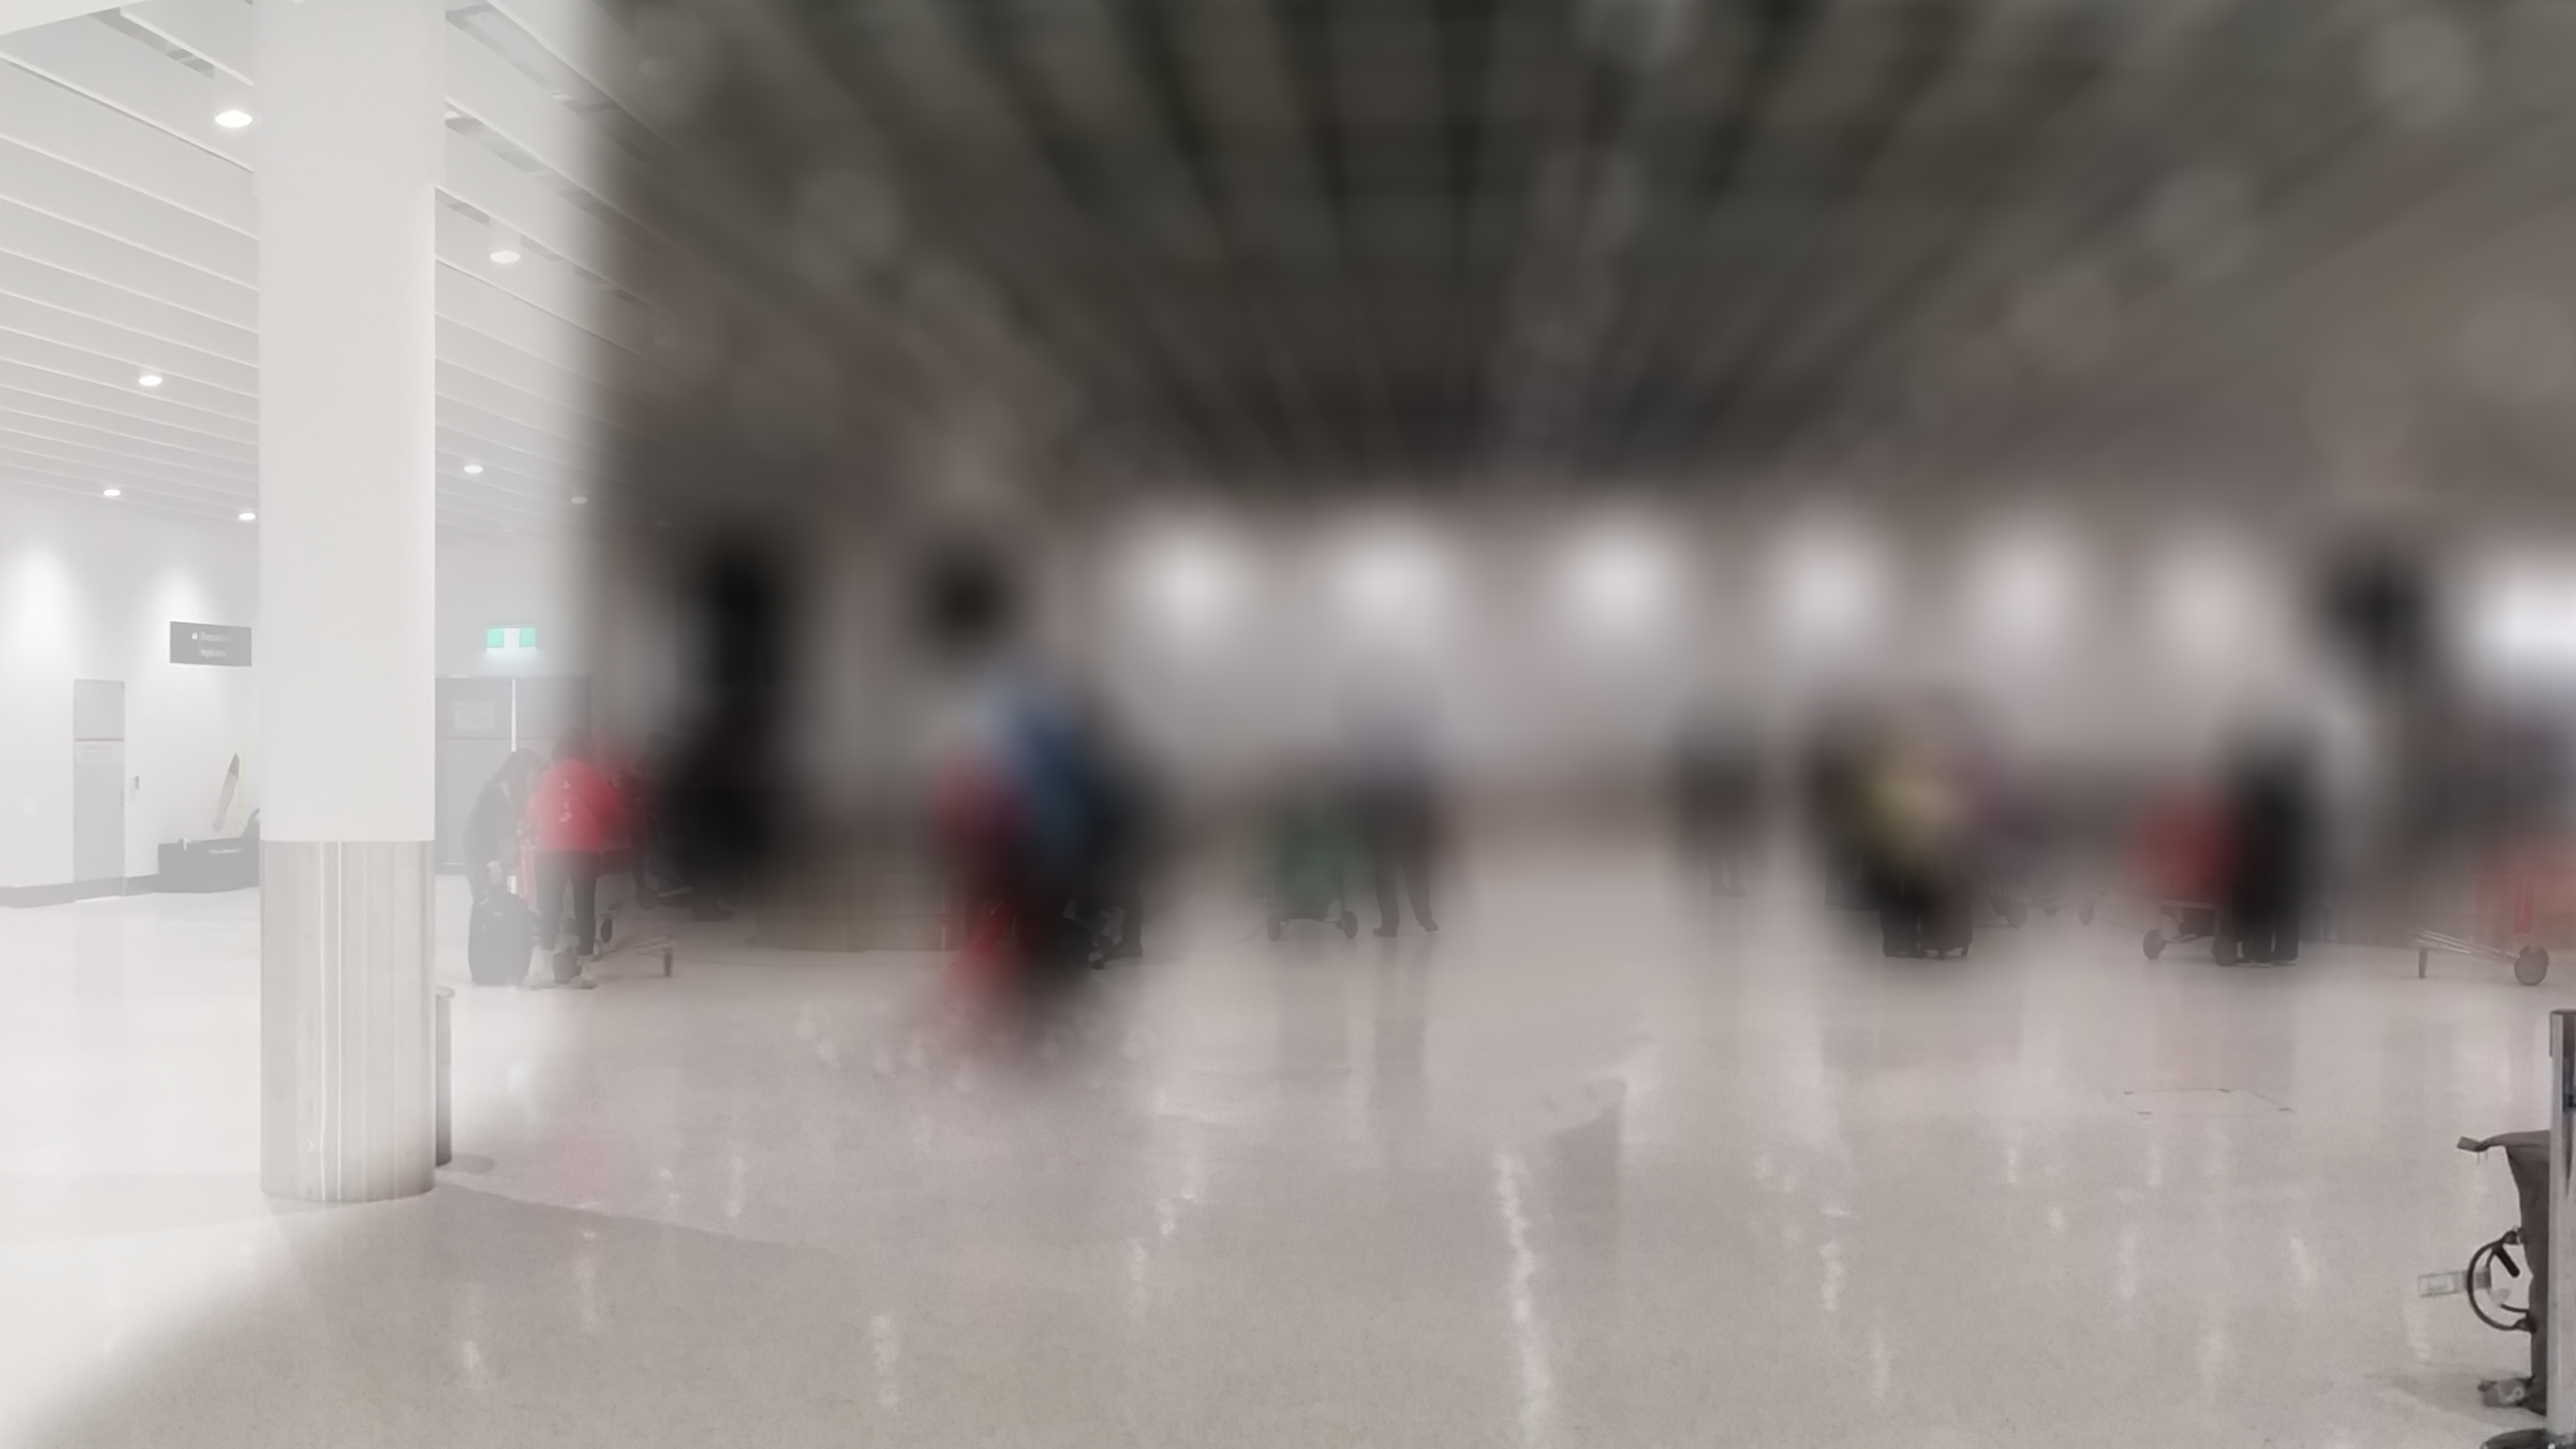
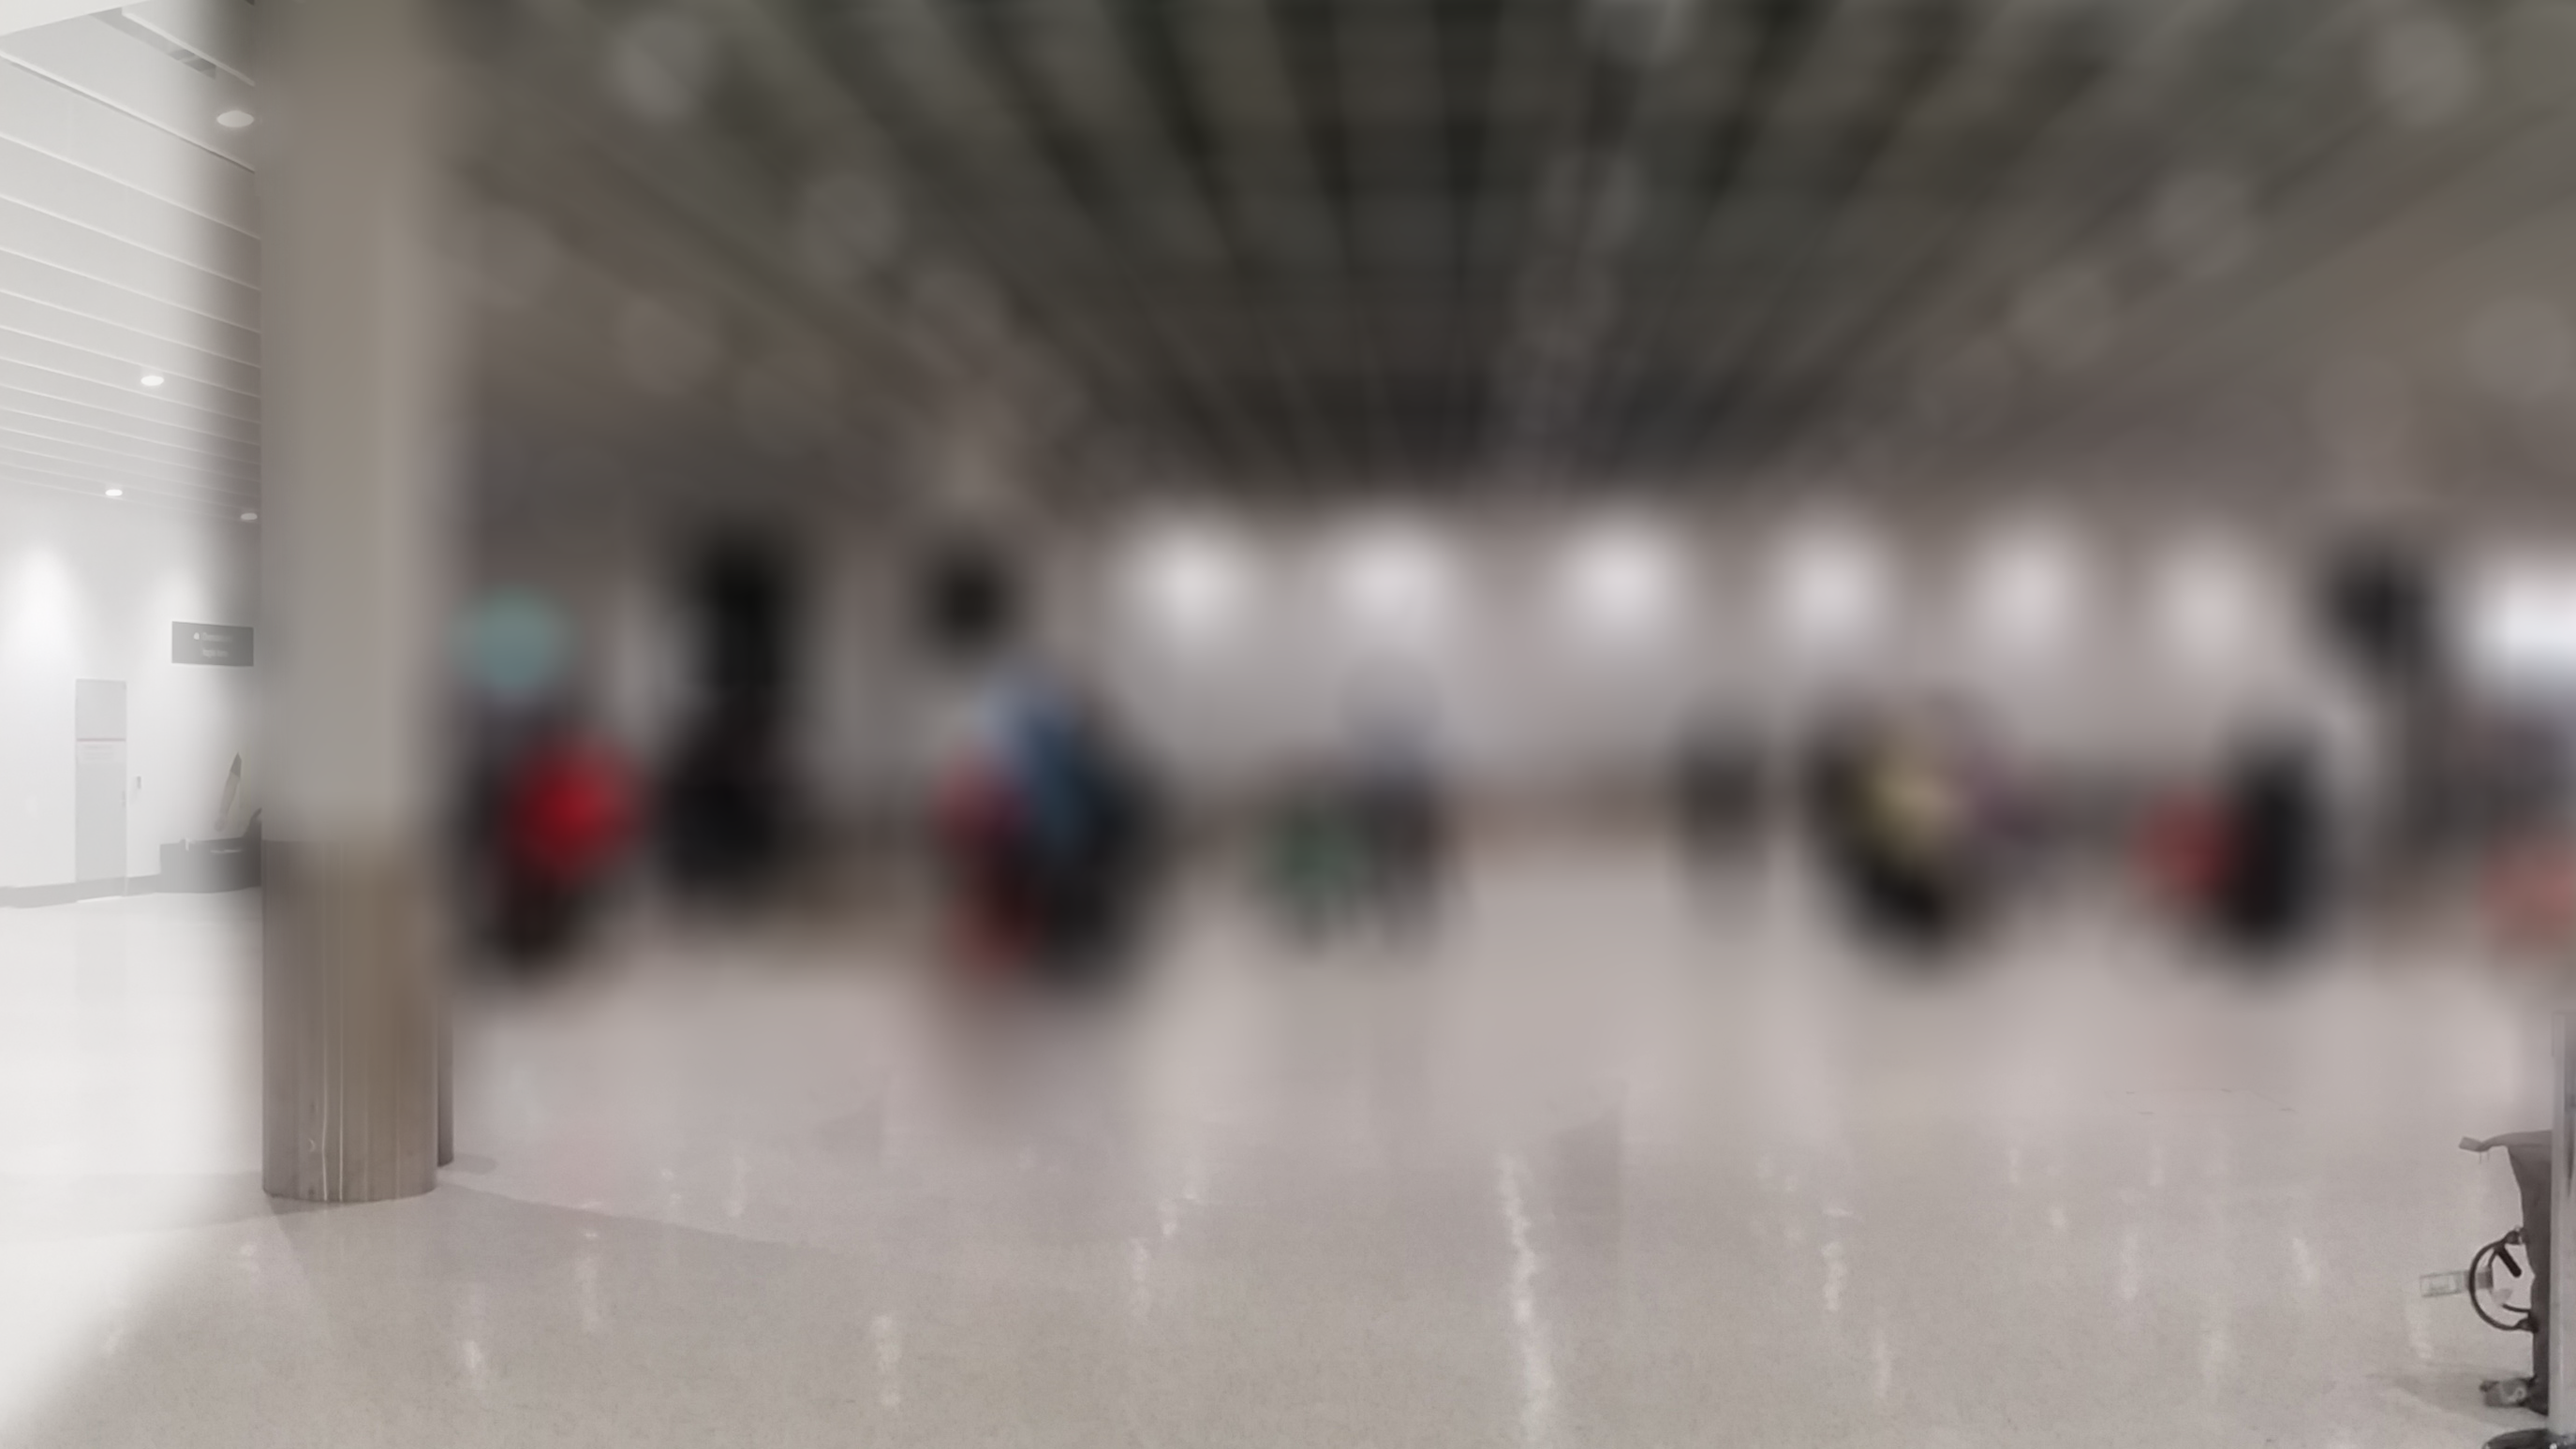
more animation
passenger id, checkpoint block

diff --git a/view.cpp b/view.cpp
@@ -137,7 +137,7 @@ void flush(int value) {
         drawButton();
     } else {
         // 图形
-
+        drawObject(anibg, Point(-1.0, -1.0), 2.0, 2.0);
         // 移动队列中所有乘客并绘制
         for(int i = 0; i < SerpQ.getNum(); i++) SerpQ[i].move();
         drawSerpQueue();
@@ -472,6 +472,20 @@ void loadTexture() {
 
     texId[initbg] = SOIL_load_OGL_texture(
         ".\\source\\initbg.png",
+        SOIL_LOAD_AUTO,
+        SOIL_CREATE_NEW_ID,
+        SOIL_FLAG_MIPMAPS | SOIL_FLAG_INVERT_Y | SOIL_FLAG_NTSC_SAFE_RGB
+    );
+
+    texId[anibg] = SOIL_load_OGL_texture(
+        ".\\source\\anibg.png",
+        SOIL_LOAD_AUTO,
+        SOIL_CREATE_NEW_ID,
+        SOIL_FLAG_MIPMAPS | SOIL_FLAG_INVERT_Y | SOIL_FLAG_NTSC_SAFE_RGB
+    );
+    
+    texId[block] = SOIL_load_OGL_texture(
+        ".\\source\\block.png",
         SOIL_LOAD_AUTO,
         SOIL_CREATE_NEW_ID,
         SOIL_FLAG_MIPMAPS | SOIL_FLAG_INVERT_Y | SOIL_FLAG_NTSC_SAFE_RGB

diff --git a/passenger.cpp b/passenger.cpp
@@ -20,8 +20,8 @@ inline float sym(float a, float b) {
 
 int Passenger::count = 0;
 
-Passenger::Passenger(int arriveTime, int checkTime) {
-    id = count++;
+Passenger::Passenger(int arriveTime, int checkTime, bool giveid) {
+    if(giveid) id = count++;
     this->arriveTime = arriveTime;
     this->checkTime = checkTime;
 
@@ -46,12 +46,14 @@ void Passenger::nextPoint() {
     if(routeId > 0) routeId--;
 }
 
-void Passenger::draw() {
+void Passenger::draw(bool showNum) {
     Glyph::draw();
 
-    // char s[100];
-    // glColor3f(1.0f, 1.0f, 1.0f);     //设置字体颜色
-    // glRasterPos2f(pos.x, pos.y + height);
-    // sprintf(s, "%d", id);
-    // drawString(s);
+    if(showNum) {
+        char s[100];
+        glColor3f(1.0f, 1.0f, 1.0f);     //设置字体颜色
+        glRasterPos2f(pos.x, pos.y + height);
+        sprintf(s, "%d", id);
+        drawString(s);
+    }
 }

diff --git a/demo.cpp b/demo.cpp
@@ -67,8 +67,10 @@ void run() {
 		//休息区to蛇形队列
 		while (!SerpQ.isFull() && !RestA.isempty()&& RestA.getFirstPassenger().arriveTime>getTime())
 		{
-			RestA.getFirstPassenger().routeId = curFreeRtp;
-			SerpQ.addPassenger(RestA.getFirstPassenger());
+			Passenger curp = Passenger(RestA.getFirstPassenger().arriveTime, RestA.getFirstPassenger().checkTime, true);
+			curp.routeId = curFreeRtp;
+			SerpQ.addPassenger(curp);
+			//cout << "passenger added!" << endl;
 			writeLogFile(to_string(RestA.getFirstPassenger().id) + string(" passenger enters the queuing buffer"));
 			if (curFreeRtp < MaxCustNum - 1) {
 				curFreeRtp++;

diff --git a/checkpoint.cpp b/checkpoint.cpp
@@ -84,8 +84,12 @@ CheckPoint::CheckPoint() {
 
 void CheckPoint::draw() {
     this->Glyph::draw();
+    if(state == closed) {
+        //cout << "close pic drawn" << endl;
+        drawObject(block, Point(pos.x+0.05, pos.y+height), 0.07, 0.12);
+    }
     for(int i = 0; i < this->getNum(); i++) {
-        (*this)[i].draw();
+        if(i == 0) (*this)[i].draw(true);
+        else (*this)[i].draw(false);
     }
 }
-

diff --git a/passenger.h b/passenger.h
@@ -10,9 +10,9 @@ public:
     int routeId; // 要去哪个路径点
 	bool isMuslim;
     static int count;
-    Passenger(int arriveTime, int checkTime);
+    Passenger(int arriveTime, int checkTime, bool giveid = false);
     Passenger();
-    void draw();
+    void draw(bool showNum = false);
     void move();
     void nextPoint();
 };

diff --git a/function.cpp b/function.cpp
@@ -154,7 +154,7 @@ int distribution(CheckPoint* CheckP[])
 void refreshCheckPoint(CheckPoint* CheckP[])
 {
     for(int i=0;i<MaxCheck;i++)
-        if(CheckP[i]->getState()==onDuty)
+		if(CheckP[i]->getState()==onDuty||CheckP[i]->getState()==closed)
             {
                 CheckP[i]->refreshNum();
             }

diff --git a/globalvar.h b/globalvar.h
@@ -34,5 +34,5 @@ typedef enum textureName
     arrow_left_normal, arrow_left_hover, arrow_left_pressed,
     arrow_right_normal, arrow_right_hover, arrow_right_pressed,
     button_normal, button_hover, button_pressed,
-    initbg
+    initbg, anibg, block
 }texName;
